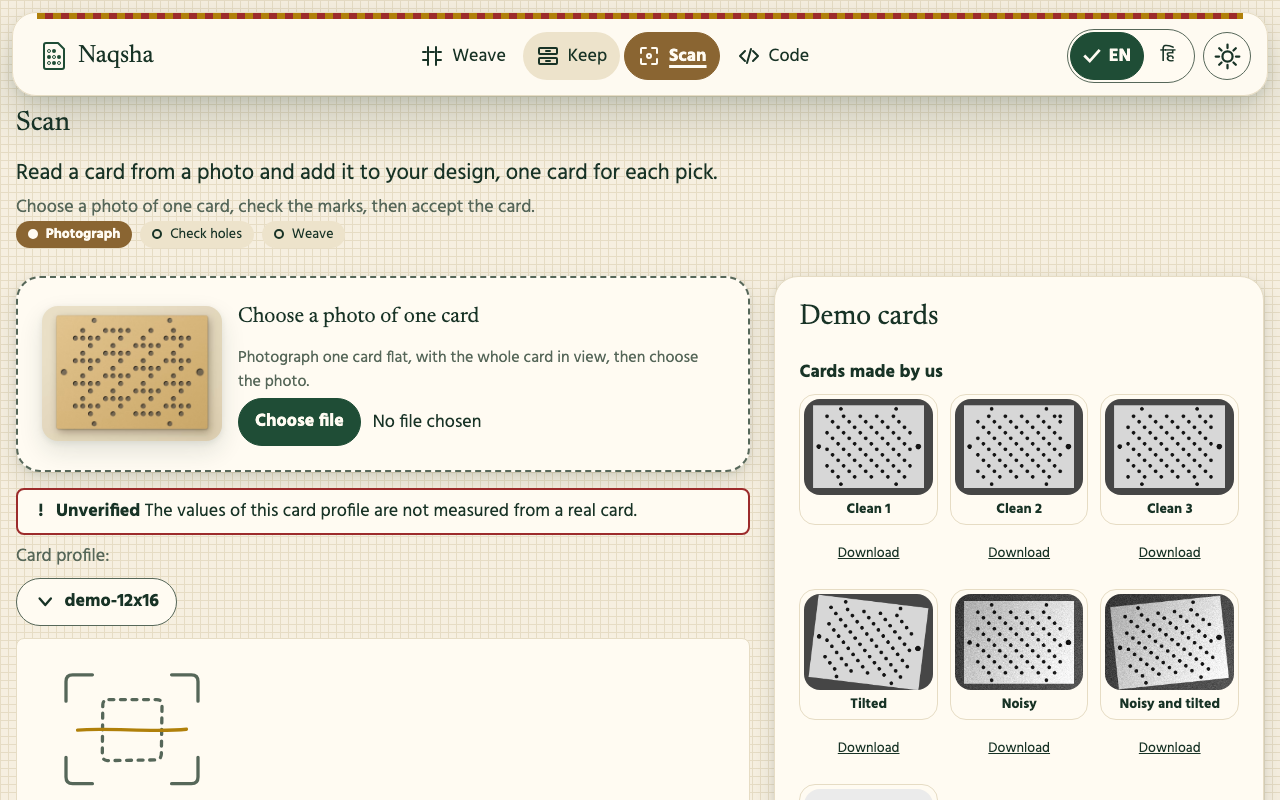
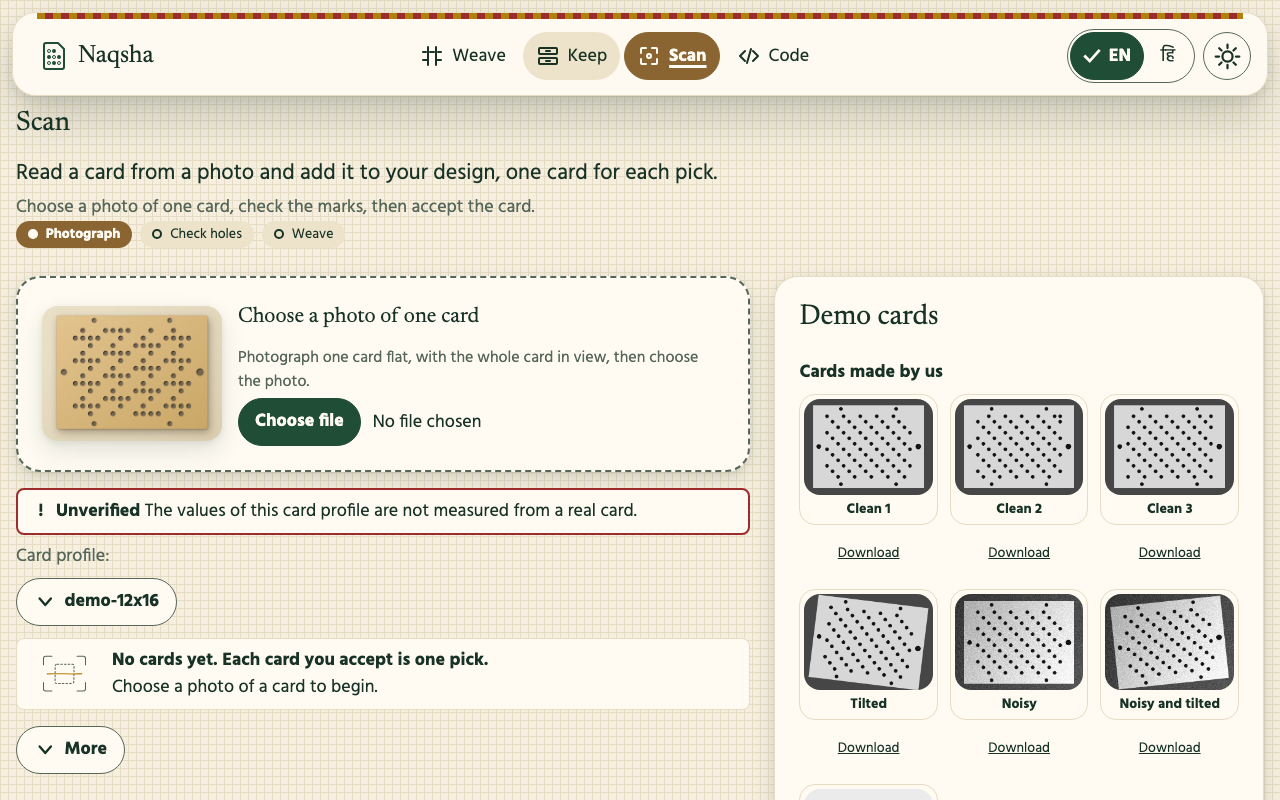
scan: compact empty state so More is in the first screen

Changed region(s): [[0.0, 0.8125, 0.5938, 1.0]]

diff --git a/src/ui/screens/scan/ScanScreen.module.css b/src/ui/screens/scan/ScanScreen.module.css
@@ -103,6 +103,27 @@
   .side {
     grid-area: side;
   }
+  /* The "No cards yet" panel is compact here so "More" stays in the first screen: a small drawing beside the two lines, less padding. */
+  .compactEmpty > div {
+    padding: var(--space-2) var(--space-4);
+  }
+  .compactEmpty [data-empty-state] {
+    display: grid;
+    grid-template-columns: 3.5rem minmax(0, 1fr);
+    align-items: center;
+    column-gap: var(--space-4);
+    row-gap: 0;
+  }
+  .compactEmpty [data-empty-state] > div:first-child {
+    grid-row: 1 / span 2;
+    grid-column: 1;
+  }
+  .compactEmpty [data-empty-state] > p {
+    grid-column: 2;
+  }
+  .compactEmpty [data-empty-state] svg {
+    width: 3.5rem;
+  }
 }
 .more {
   margin: 16px 0 0;

diff --git a/src/ui/screens/scan/ScanScreen.tsx b/src/ui/screens/scan/ScanScreen.tsx
@@ -184,7 +184,9 @@ export function ScanView(props: ScanViewProps) {
           </Panel>
           <ProfileNotice profile={profile} t={t} />
           {batch.length === 0 ? (
-            <StateMessage variant="empty" illustration={<NoCardsScannedIllustration />} message={t('scan.batch.empty')} next={t('scan.batch.empty.next')} t={t} />
+            <div className={styles.compactEmpty}>
+              <StateMessage variant="empty" illustration={<NoCardsScannedIllustration />} message={t('scan.batch.empty')} next={t('scan.batch.empty.next')} t={t} />
+            </div>
           ) : null}
         </>
       )}
